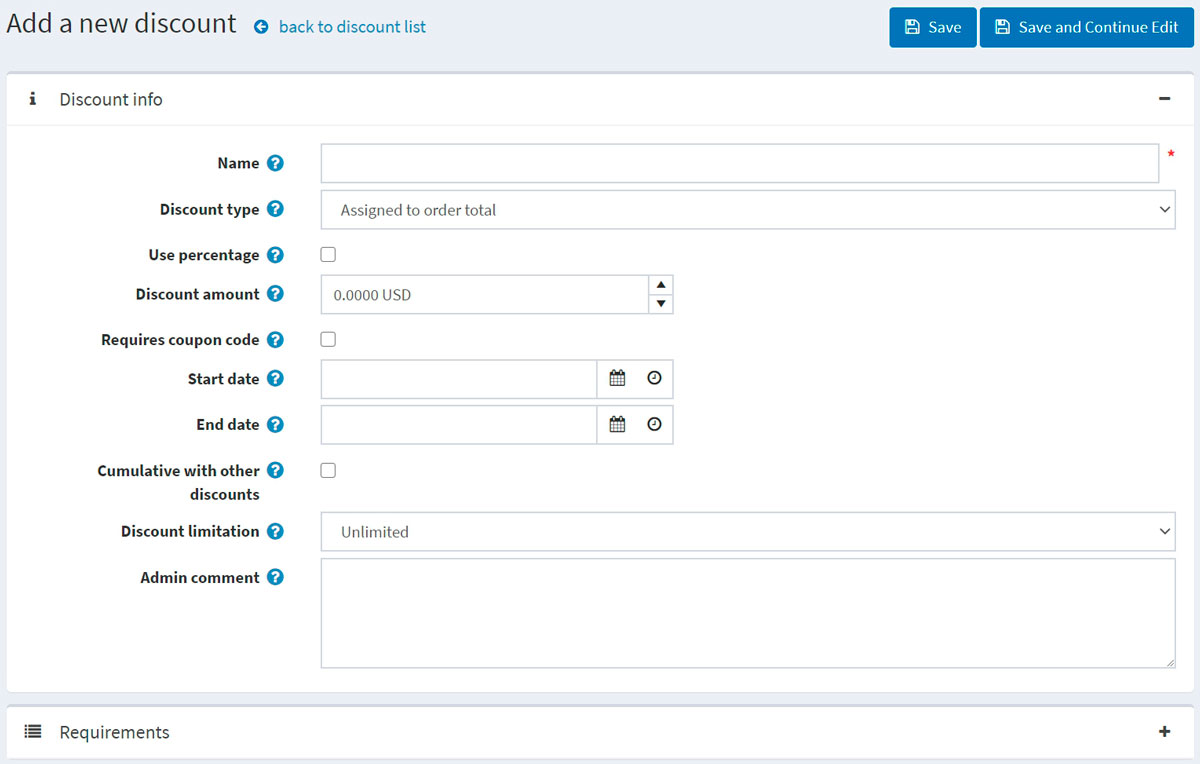
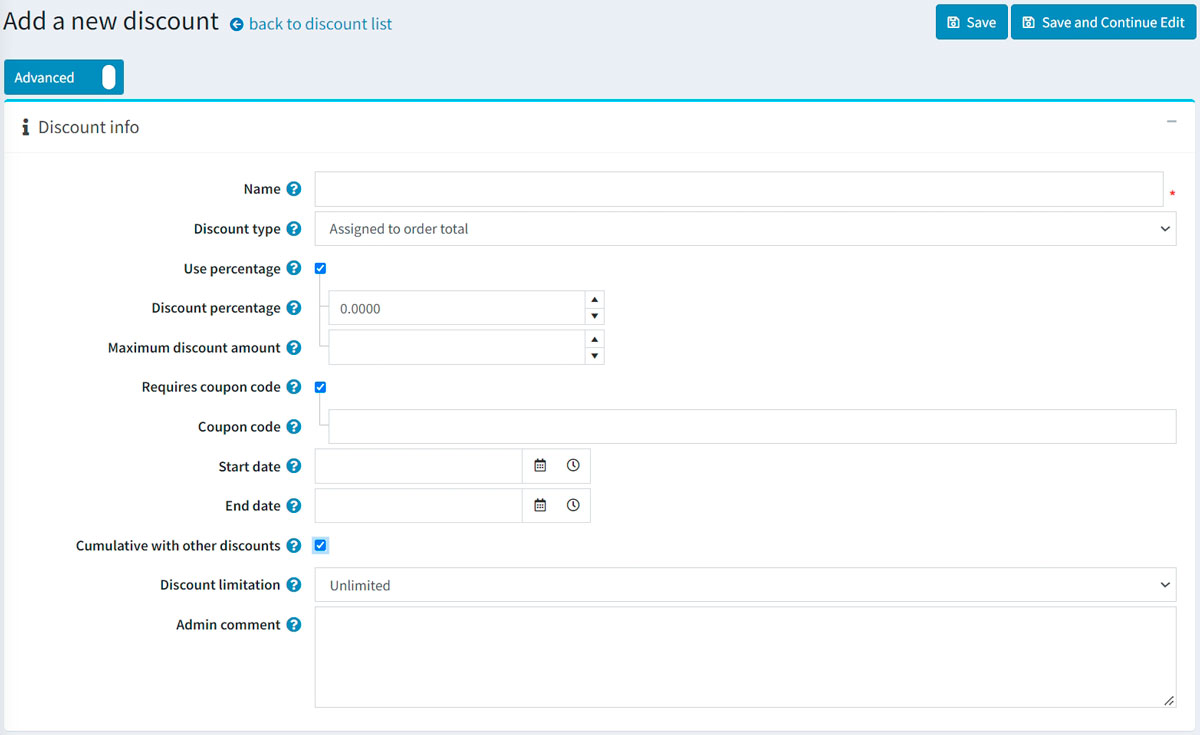
Updates the Discounts page

diff --git a/en/running-your-store/promotional-tools/discounts.md b/en/running-your-store/promotional-tools/discounts.md
@@ -25,7 +25,7 @@ The top area of the page enables you to search for a discounts by different sear
 - **Discount name** is a full discount name or a part of the discount name.
 
 > [!NOTE]
-> 
+>
 > By default, there are no discounts available in nopCommerce, so you can create them from scratch and follow your own marketing strategy.
 
 ## Adding new discount
@@ -33,6 +33,8 @@ The top area of the page enables you to search for a discounts by different sear
 To add a new discount go to **Promotions → Discounts** and click **Add new**.
 
 ![Add a new discount](_static/discounts/add-new.jpg)
+
+This page is available in two modes: advanced and basic. Stay in the basic mode which displays the only main fields or switch to the advanced mode displaying all the available fields.
 
 - Enter the **Name** of the discount.
 - From the **Discount type** dropdown list, assign the discount to the required option, as follows:
@@ -48,15 +50,15 @@ To add a new discount go to **Promotions → Discounts** and click **Add new**.
   - If the previous checkbox is ticked the **Discount percentage** field will be displayed.
   - You can also set the **Maximum discount amount**. Leave this field empty to allow any discount amount. If you're using *Assigned to products* discount type, then it's applied to each product separately.
 
-- Or you can apply **Discount amount** to the order or SKU.
+- You can apply **Discount amount** to the order or SKU if the **Use percentage** checkbox is not ticked.
 - Tick the **Requires coupon code** checkbox, to enable a customer to supply a coupon code for the discount to be applied.
   - After ticking the checkbox the **Coupon code** option appears. You can enter the required coupon code in this field. This enables customers to enter this coupon code during checkout to apply the discount.
     > [!NOTE]
-    > 
+    >
     > A customer can apply an unlimited number of coupon codes to one order if they fit it.
 
 - If you want to specify the **Start date** and the **End date** for your discount, select them in the calendar field in Coordinated Universal Time (UTC).
-- The **Cumulative with other discounts** option allows customers use several discounts at the same time. If checked, this discount can be used with other ones simultaneously. 
+- The **Cumulative with other discounts** option allows customers use several discounts at the same time. If checked, this discount can be used with other ones simultaneously.
   > [!NOTE]
   >
   > This feature works only for discounts with the same discount type. Right now, discounts with distinct types are already cumulative.
@@ -66,14 +68,14 @@ To add a new discount go to **Promotions → Discounts** and click **Add new**.
   - *N times only*: select this option and enter the number of times this discount will be available.
   - *N times per customer*: select this option and enter the number of times this discount will be available for one customer.
 
-- In the **Maximum discounted quantity** field (only visible when the **Discount type** is set to *Assigned to products*, *categories* or *manufacturers*) specify the maximum product quantity which could be discounted. It can be used for scenarios like "buy 2 get 1 free". 
+- In the **Maximum discounted quantity** field (only visible when the **Discount type** is set to *Assigned to products*, *categories* or *manufacturers*) specify the maximum product quantity which could be discounted. It can be used for scenarios like "buy 2 get 1 free".
 - Enter the **Admin comment** if needed. It is not visible for customers.
 
 Click **Save** to save the changes or click **Save and continue edit** to proceed to editing other panels.
 
 ## Adding discount requirements
 
-After creating the discount it's allowed to add discount requirements if you want some specific rules to be applied to the discount. 
+After creating the discount it's allowed to add discount requirements if you want some specific rules to be applied to the discount.
 Set up requirements if you want to limit the discount to certain user categories depending on a customer role, the amount spent, etc. You can use single requirement type, or group several types and apply them simultaneously.
 
 To add discount requirements go to *Requirements* panel:
@@ -84,7 +86,7 @@ To add a new requirement select the **Discount requirement type** from the dropd
 
 - There is one requirement type available in nopCommerce out of the box: *Must be assigned to a customer role*. This allows you to configure discounts for certain customer groups (roles). Other requirements are available as plugins on our [marketplace](https://www.nopcommerce.com/en/extensions?searchterm=discount+requirement&category=discounts-promotions).
 
-- Also, you can create a group of requirements to deal with complex requirements with multiple rules. Requirement group is a useful feature for creating discount requirement templates. You can create a requirement group just once and then use it every time you want this limitation to be applied. You can include one requirement group into another one if needed. 
+- Also, you can create a group of requirements to deal with complex requirements with multiple rules. Requirement group is a useful feature for creating discount requirement templates. You can create a requirement group just once and then use it every time you want this limitation to be applied. You can include one requirement group into another one if needed.
   The requirements are set using boolean logic. For instance, if you want the discount to be assigned to a particular customer role or in case a customer had spent a certain amount. Such requirements and more are available as plugins on our [marketplace](https://www.nopcommerce.com/en/extensions?searchterm=discount+requirement&category=discounts-promotions).
 
 ![Group requirements](_static/discounts/discount-requirenents-group.png)
@@ -96,7 +98,6 @@ When customers apply a discount while proceeding to the checkout, it is displaye
 ![discount-in-shopping-cart](_static/discounts/discount-in-shopping-cart.png)
 
 ![coupone-code](_static/discounts/coupone-code.png)
-
 
 ## Common type of discounts
 
@@ -121,15 +122,14 @@ Often you need to sell more items of the certain product. In this case, to encou
 
 ![Edit discount details](_static/discounts/buy_1.png)
 
-- The **Discount type** is *Assigned to products*. In *Applied to products* panel you can add them, here will be an "Oversized T-shirt". 
-- We want our customers to get 50% discount on the 2nd t-shirt. 
+- The **Discount type** is *Assigned to products*. In *Applied to products* panel you can add them, here will be an "Oversized T-shirt".
+- We want our customers to get 50% discount on the 2nd t-shirt.
 - This discount can be used once per customer, so the **Maximum discounted quantity** is 1.
 - You can set up requirements to the product quantity in *Requirements* panel. Add a requirement type *Customer has all of these products* and add T-shirt with a quantity 2. This requirement type can be dowloaded as a plugin [here](https://www.nopcommerce.com/en/has-all-products-discount-requirement-rule).     Read how to install plugins in the [Plugins](xref:en/getting-started/advanced-configuration/plugins-in-nopcommerce) section.
 
 ![Buy one item and get 50% on the second](_static/discounts/buy_2.png)
 
 You can use this scenario to set up other popular discount - "Buy one and get the second for free" if you set up a 100% discount.
-
 
 ## See also
 
